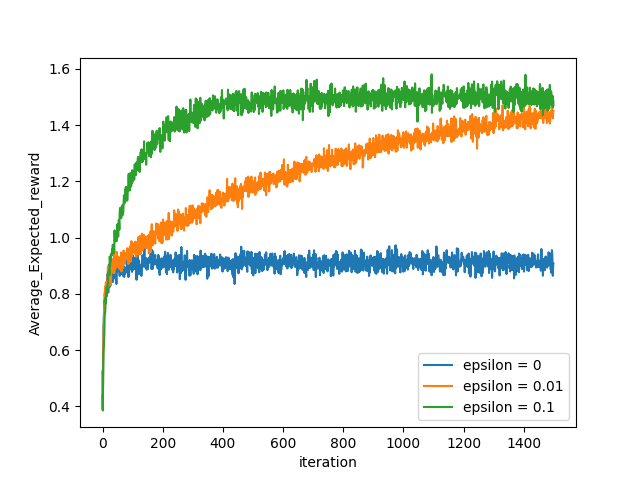
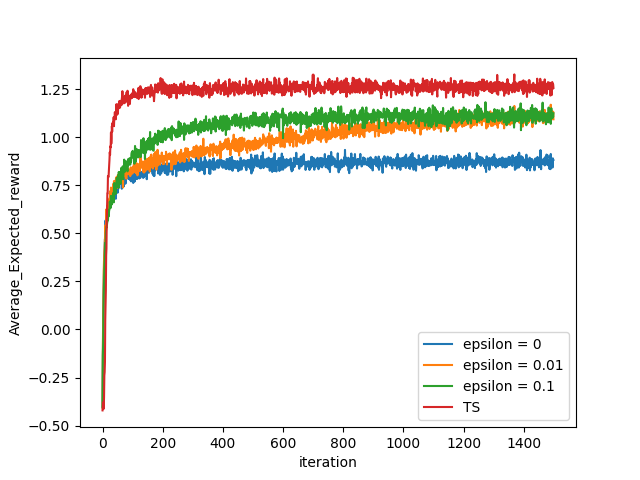
Thompson Sampling Added with significant improvement

diff --git a/Agents.py b/Agents.py
@@ -4,7 +4,11 @@ MABP:- Creating simulated data for Multi Armed Bandit problem (N armed TestBed)
 import numpy as np
 from collections import defaultdict
 from typing import List
+from numpy.core.fromnumeric import var
 
+from seaborn.categorical import factorplot
+
+flag = 0
 class Bandit:
     def __init__(self, action_id, mean):
         """
@@ -55,6 +59,13 @@ class EpsilonGreedyAgent:
         """
         self.bandits = bandits
         self.epsilon = epsilon
+        # mu_pri and var_pri are hypermaterers for prior distribution
+        self.mu_pri = np.zeros(len(self.bandits))
+        self.var_pri = np.ones(len(self.bandits))*5
+        # mu and var are hyperparameters for posterior distribution
+        self.mu = self.mu_pri
+        self.var = self.var_pri
+        self.var0 = 1 # 1 is taken but any can be taken no prob upto a limit constant of inintial distribution
         self.logging = Logging()
 
     def _get_random_bandit(self)-> Bandit:
@@ -62,45 +73,116 @@ class EpsilonGreedyAgent:
         random choice of bandits 
         """
         return np.random.choice(self.bandits)
+    
+    def _get_max_estimated_bandit(self)->Bandit:
+        """
+        this function is used to estimate model based on mean/mode
+        """
+      #  print("mus - ", self.mu)
+       # print("actions - ", np.argmax(self.mu))
+        unique, counts = np.unique(self.mu, return_counts=True)
+        lens = counts[np.argmax(unique)]  
+        if lens>1: # if two actions have same argmax
+            # then return arbitrarily from those max ones
+            maxs = list(np.array(self.bandits)[self.mu==unique[np.argmax(unique)]])
+            return np.random.choice(maxs)
+        # otherwise return the max one
+        return self.bandits[np.argmax(self.mu)]
 
-    def _get_max_estimated_bandits(self)->Bandit:
+    def _update(self, bandit):
         """
         returning maximum one using sam[ple averaging method
         """   
-        estimates = []     
-        for bandit in self.bandits:
-            bandit_logs = self.logging[bandit]
-            if not bandit_logs['actions']:
-                estimates.append(0) # if not taken till now then 0 is assigned
-            else:
-                estimates.append(bandit_logs['reward'] / bandit_logs['actions']) # if not assigned
+        
+        bandit_logs = self.logging[bandit]
+        bandit = bandit.id
+        estimate = bandit_logs['reward'] / bandit_logs['actions'] # if not assigned
+        actions =  bandit_logs['actions']
+        self.mu[bandit] = (self.mu_pri[bandit]/self.var_pri[bandit] + actions*estimate/self.var0)/(actions/self.var0 + 1/self.var_pri[bandit])
+        self.var[bandit] = 1/(actions/self.var0 + 1/self.var[bandit])
 
-        return self.bandits[np.argmax(estimates)]
+        
     def _choose_bandit(self)->Bandit:
         epsilon = self.epsilon
-
+        global flag
         p = np.random.uniform(0, 1, 1)
-        if p < epsilon:
+        if p < epsilon or (flag==0 and epsilon==0):
+            flag = 1
             bandit = self._get_random_bandit()
         else:
-            bandit = self._get_max_estimated_bandits()
+            bandit = self._get_max_estimated_bandit()
 
         return bandit
     def action(self):
         current_bandit = self._choose_bandit()
         reward = current_bandit.pull_arm()
         self.logging.record_action(current_bandit, reward)
+        self._update(current_bandit)
         
     def actions(self, timesteps):
         for _ in range(timesteps):
             self.action()
     
-        return self.logging.all_rewards, self.logging.all_actions, 
+        return self.logging.all_rewards, self.logging.all_actions
 
 
 class ThomspsonSamplingAgent:
-    """
-    Thompson Sampling Agent Will come
-    """
-    pass   
+    
+    def __init__(self, bandits: List[Bandit]):
+        """
+        Constructor for Epsilon Greedy Agent on 10 armed test bed
+        """
+        self.bandits = bandits
+        # mu_pri and var_pri are hypermaterers for prior distribution
+        self.mu_pri = np.zeros(len(self.bandits)) # 5 for each
+        self.var_pri = np.ones(len(self.bandits))*5
+        # mu and var are hyperparameters for posterior distribution
+        self.mu = self.mu_pri
+        self.var = self.var_pri
+        self.var0 = 1 # 1 is taken but any can be taken no prob upto a limit constant of inintial distribution
+        self.logging = Logging()
+
+
+    def _get_max_sampled_bandit(self)->Bandit:
+        """
+        this function is used to estimate model based on mean/mode
+        """
+        estimates = []
+        for bandit in self.bandits:
+            estimates.append(np.random.normal(loc =self.mu[bandit.id], scale = self.var[bandit.id]))
+        return self.bandits[np.argmax(estimates)]
+
+    def _update(self, bandit):
+        """
+        returning maximum one using sam[ple averaging method
+        """   
+        
+        bandit_logs = self.logging[bandit]
+        bandit = bandit.id
+        if not bandit_logs['actions']:
+            estimate = 0 # if not taken till now then 0 is assigned
+            actions = 0
+        else:
+            estimate = bandit_logs['reward'] / bandit_logs['actions'] # if not assigned
+            actions =  bandit_logs['actions']
+        self.mu[bandit] = (self.mu_pri[bandit]/self.var_pri[bandit] + actions*estimate/self.var0)/(actions/self.var0 + 1/self.var_pri[bandit])
+        self.var[bandit] = 1/(actions/self.var0 + 1/self.var[bandit])
+
+        
+    def _choose_bandit(self)->Bandit:
+        
+        bandit = self._get_max_sampled_bandit()
+
+        return bandit
+    def action(self):
+        current_bandit = self._choose_bandit()
+        reward = current_bandit.pull_arm()
+        self.logging.record_action(current_bandit, reward)
+        self._update(current_bandit)
+        
+    def actions(self, timesteps):
+        for _ in range(timesteps):
+            self.action()
+    
+        return self.logging.all_rewards, self.logging.all_actions
 

diff --git a/run.py b/run.py
@@ -2,11 +2,11 @@ from typing import List, Tuple
 import numpy as np
 import matplotlib.pyplot as plt
 import seaborn as sns
-from Agents import Bandit, EpsilonGreedyAgent
+from Agents import Bandit, EpsilonGreedyAgent, ThomspsonSamplingAgent
 import pandas as pd
 
 
-def compare_epsilons(
+def compare_epsilons_and_TS(
     epsilons: List[float],
     bandits_true_means: List[float],
     timesteps: int,
@@ -21,12 +21,16 @@ def compare_epsilons(
     _, ax1 = plt.subplots()
     for n in range(num_simulations):
         for ag, epsilon in enumerate(epsilons):
-            print("Running epsilon-greedy with epsilon = {} for simulation_num  = {}".format(epsilon, n+1))
-            agent = EpsilonGreedyAgent(bandits=bandits, epsilon=epsilon)
-         #   print(timesteps)
+            if epsilon == "TS":
+                print("Running TS for simulation_num  = {}".format(n+1))
+                agent = ThomspsonSamplingAgent(bandits=bandits)
+            else:
+                print("Running epsilonwith epsilon = {} for simulation_num  = {}".format(epsilon, n+1))
+                agent = EpsilonGreedyAgent(bandits=bandits, epsilon=epsilon)
+            #   print(timesteps)
             rewards, actions = agent.actions(timesteps)
             Agents_rewards[ag]+=rewards  # aadding rewards for averaging
-            ax1.plot(np.divide(Agents_rewards[ag], n+1), label = "epsilon = " + str(epsilon))
+            ax1.plot(np.divide(Agents_rewards[ag], n+1), label = "epsilon = " + str(epsilon) if epsilon !="TS" else "TS")
             ax1.legend()
             for j in range(len(bandits_true_means)):  # loop over all actions to find the Average percentage of each action at a timestep
                 Agents_actions[ag][j] += np.uint8(np.array(actions)==j)
@@ -38,7 +42,7 @@ def compare_epsilons(
         
     return Agents_actions
 
-epsilons = [0, 0.01, 0.1]
+epsilons = [0, 0.01, 0.1, "TS"]
 bandits_means = list(np.random.randn(10)) # 10 bandits sampled from standard normal distribution
 
 # Finding the true optimal action of a particular run with it expected value for each action
@@ -67,13 +71,19 @@ plt.savefig("True_Rewards.png")
 if __name__ == "__main__":
     timesteps = 1500
     num_simulations = 2500
-    Agents_actions = compare_epsilons(epsilons, bandits_means, timesteps, num_simulations)
+    Agents_actions = compare_epsilons_and_TS(epsilons, bandits_means, timesteps, num_simulations)
+    fig, (ax1, ax2) = plt.subplots(figsize = (10,5), ncols= 2) 
     for i in range(len(bandits_means)):
-        plt.plot(np.divide(Agents_actions[1][i], num_simulations)*100, label = "Action = " + str(i))
-    plt.legend()
-    plt.xlabel("Iterations")
-    plt.ylabel("Average Optimal Action Percentage")
-    plt.title("For Greedy agent with epsilon = 0.01")
+        ax1.plot(np.divide(Agents_actions[1][i], num_simulations)*100, label = "Action = " + str(i))
+        ax2.plot(np.divide(Agents_actions[3][i], num_simulations)*100, label = "Action = " + str(i))
+    ax1.legend()
+    ax2.legend()
+    ax1.set_xlabel("Iterations")
+    ax1.set_ylabel("Average Optimal Action Percentage")
+    ax1.set_title("For Greedy agent with epsilon = 0.01")
+    ax2.set_xlabel("Iterations")
+    ax2.set_ylabel("Average Optimal Action Percentage")
+    ax2.set_title("For TS")
     plt.savefig("Optimal_Actions.png")
 
     print("Ranks = ", sort_indices)  # Again printing in the last to see

diff --git a/README.md b/README.md
@@ -13,27 +13,27 @@ The reason for choosing these two only is to show the upper and lower bounds as 
 True Reward distribution (Here Action-2 is best)
 </p>
 
-## Greedy(or Epsilon Greedies)
+##  Comparison Greedy(or Epsilon Greedies and TS
 
 we used three different epsilons here for testing
 i.e:<br/>
  - epsilon = 0 => Greedy Agent<br>
  - epsilon = 0.01 => exploration with 1% probability
- - epsilon = 0.1 => exploration with 10% probability
+ - epsilon = 0.1 => exploration with 10% probability</br>
+  
+and TS
 
 
 <p align = "center">
 <b>Averaged Over 2500 independent runs with 1500 timesteps</b></br> 
 <image width = "500" height = "300" src = Comparisons.png></br>
-<b>Comparison Between Epsilons</b></br>
+<b>Comparison</b></br>
 </br>
-<image width = "500" height = "300" src = Optimal_Actions.png><br/>
-<b>Percentage Actions selected for epsilon = 0.01</b></br>
+<image width = "700" height = "300" src = Optimal_Actions.png><br/>
+<b>Percentage Actions selected for epsilon = 0.01 and TS</b></br>
 </br>
 </p>
 
-**1st Conclusion** -> epsilon = 0.01 can be considered best as it is increasing but pretty slow and the percentage Optimal Actions for it is Around 80% means it has more to explore.
+**Conclusion** -> epsilon = 0.01 can be considered best for eps-greedies as it is increasing but pretty slow and the percentage Optimal Actions for it is Around 80% in later stages, on the other hand Thomsan Sampling shows a significant improvement in these results as it quickly explores and then exploit the optimal one with percentage goes upto almost 100 even very early!!.
 
-## Thompson Sampling 
-In this, comparison is performed for Thomspon Sampling with epsilons and Greedy Method to see it's superiority.
-I am taking help from this [Reference](Thompson_Sampling.pdf) for understanding the algo.
+In case you want to know more about TS visit this [Reference](Thompson_Sampling.pdf).
